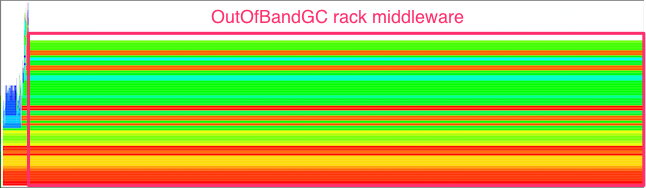
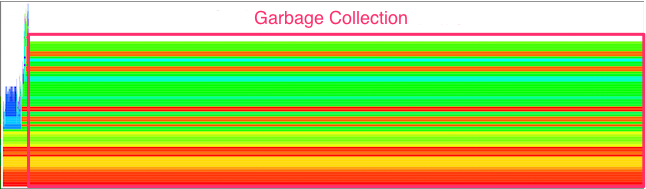
Change blog post title and remove mentions of OutOfBandGC

diff --git a/_posts/2015-04-22-fixing-a-slow-rails-development-server.md b/_posts/2015-04-22-fixing-a-slow-rails-development-server.md
@@ -1,6 +1,6 @@
 ---
 layout:    post
-title:     "7x faster Rails development server"
+title:     "Fixing a slow Rails development server"
 author:    "philippe"
 category:  blog
 date:      2015-04-10 10:00
@@ -50,9 +50,9 @@ Here is a Flame Graph for rendering `/assets/jquery.js`:
 ![Original Flame Graph](/images/posts/2015/apr/perf-flamegraph-assets.png)
 
 
-90% of the time, serving assets was spent running the Garbage Collector because of an OutOfBandGC rack middleware. While this middleware had a positive impact in production, it was also responsible for slowing down serving assets in the development environment by 14x.
+90% of the time serving assets is spent running the garbage collector (GC) because of a custom rack middleware. This custom rack middleware would disable the Garbage Collector for the duration of the request and trigger a Garbage Collection at the end of it. While this middleware had a positive impact in production, it was responsible for slowing down serving assets in development environment by 14x.
 
-We disabled the OutOfBandGC in the development environment to serve assets in 0.5 seconds, instead of 7 seconds. Serving a page with assets would take 5 seconds, instead of 10. That's **2x faster!**
+Disabling this middleware in development environment brought serving 100 assets from 7 seconds down to 0.5 seconds. Serving a page with assets would take 5 seconds, instead of 10. That's **2x faster!**
 
 ## ActiveAdmin, Y U RELOAD?
 
